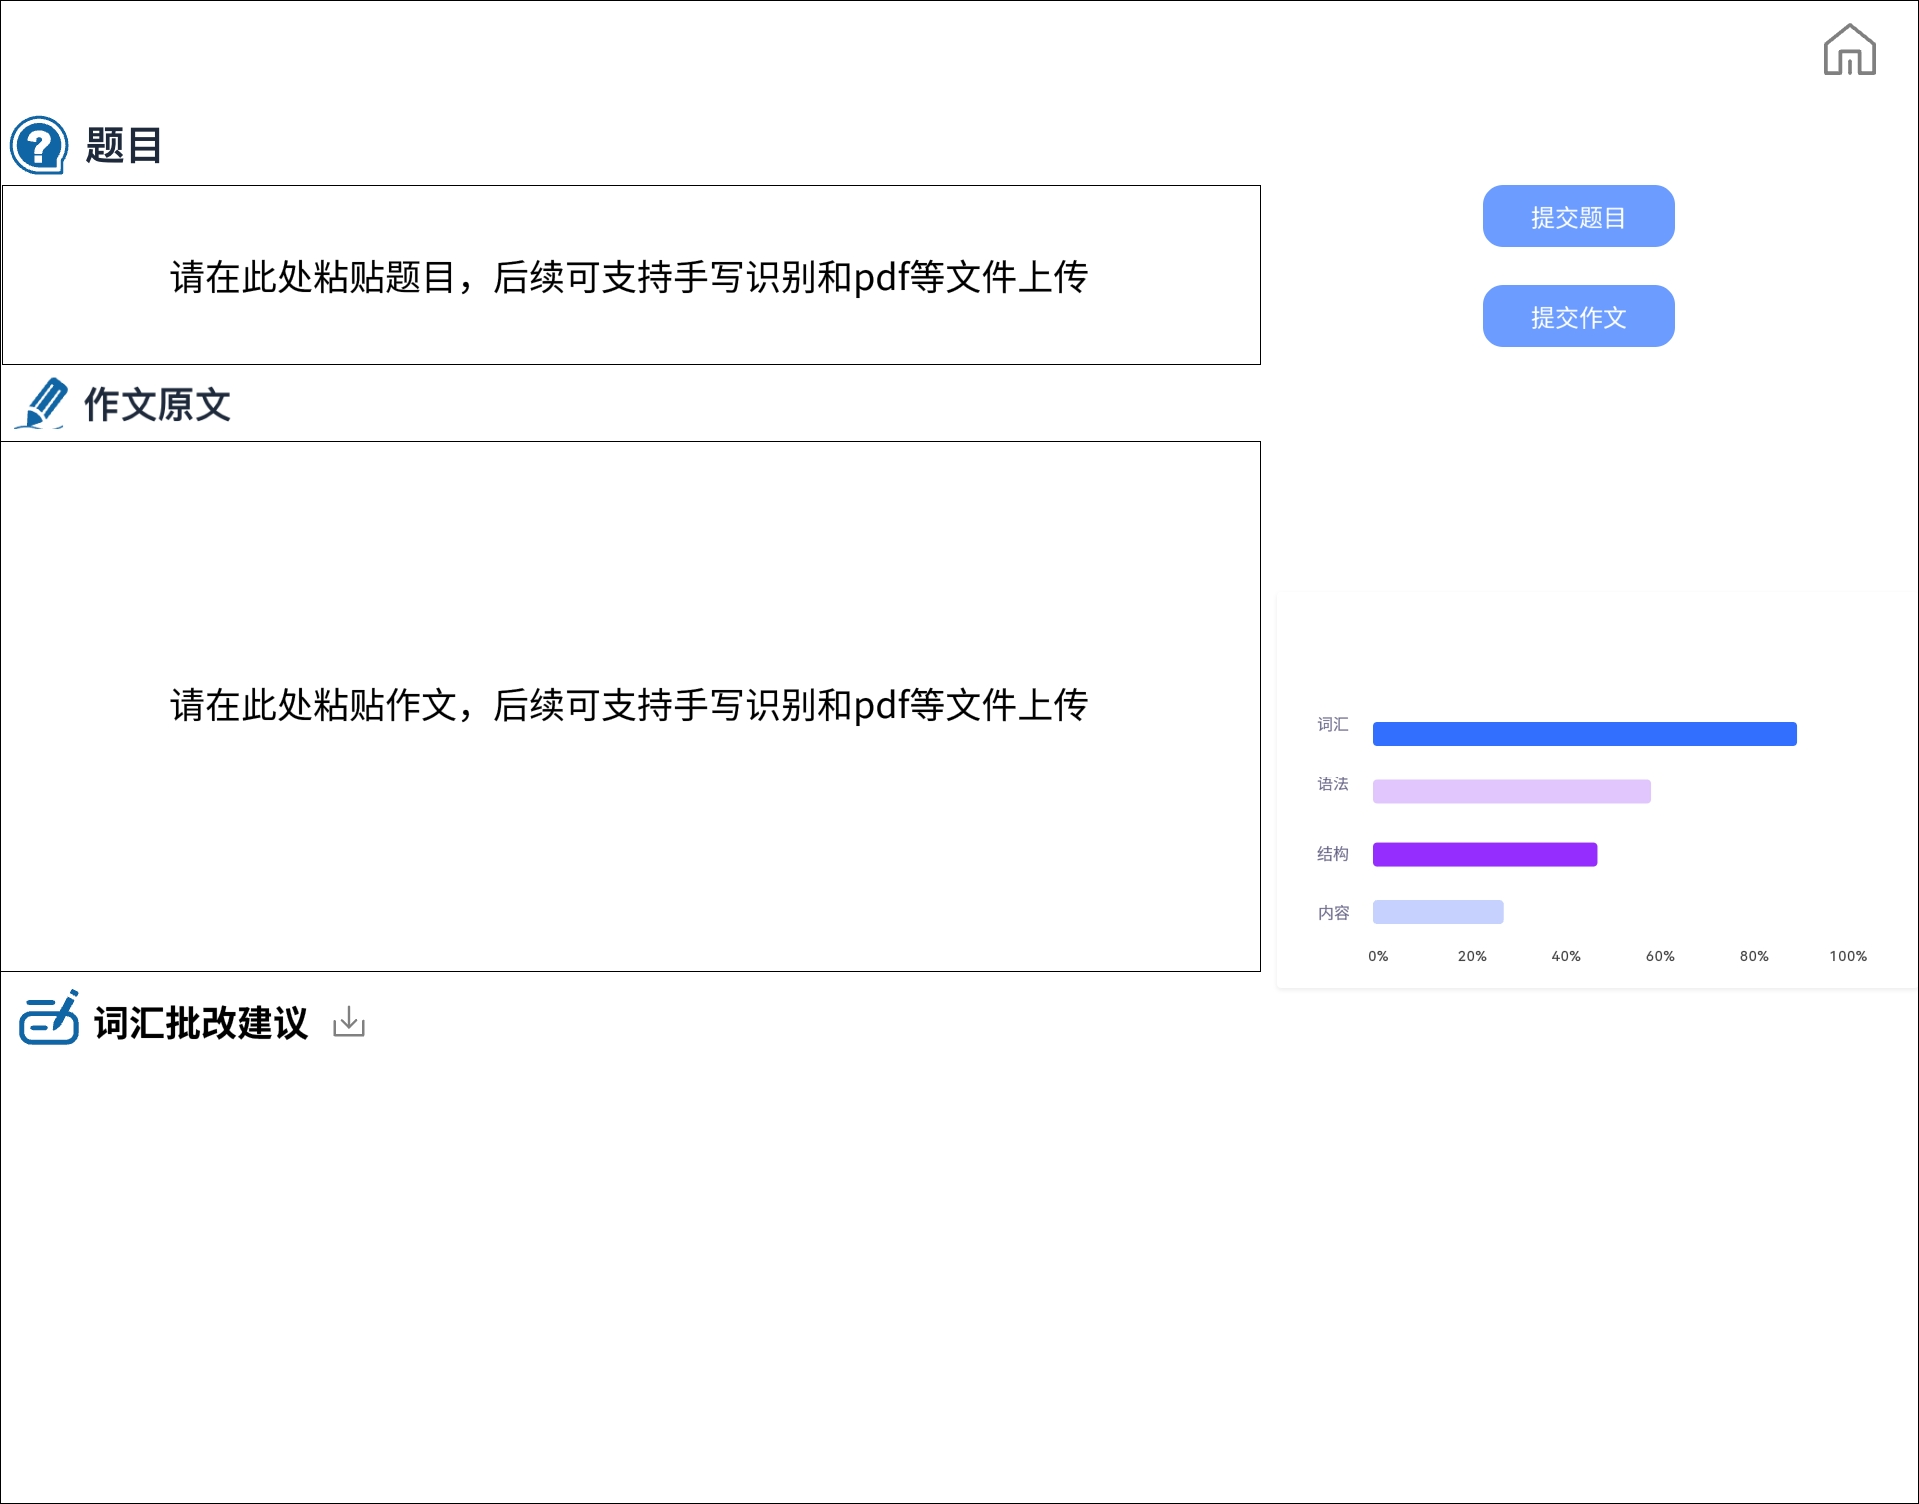
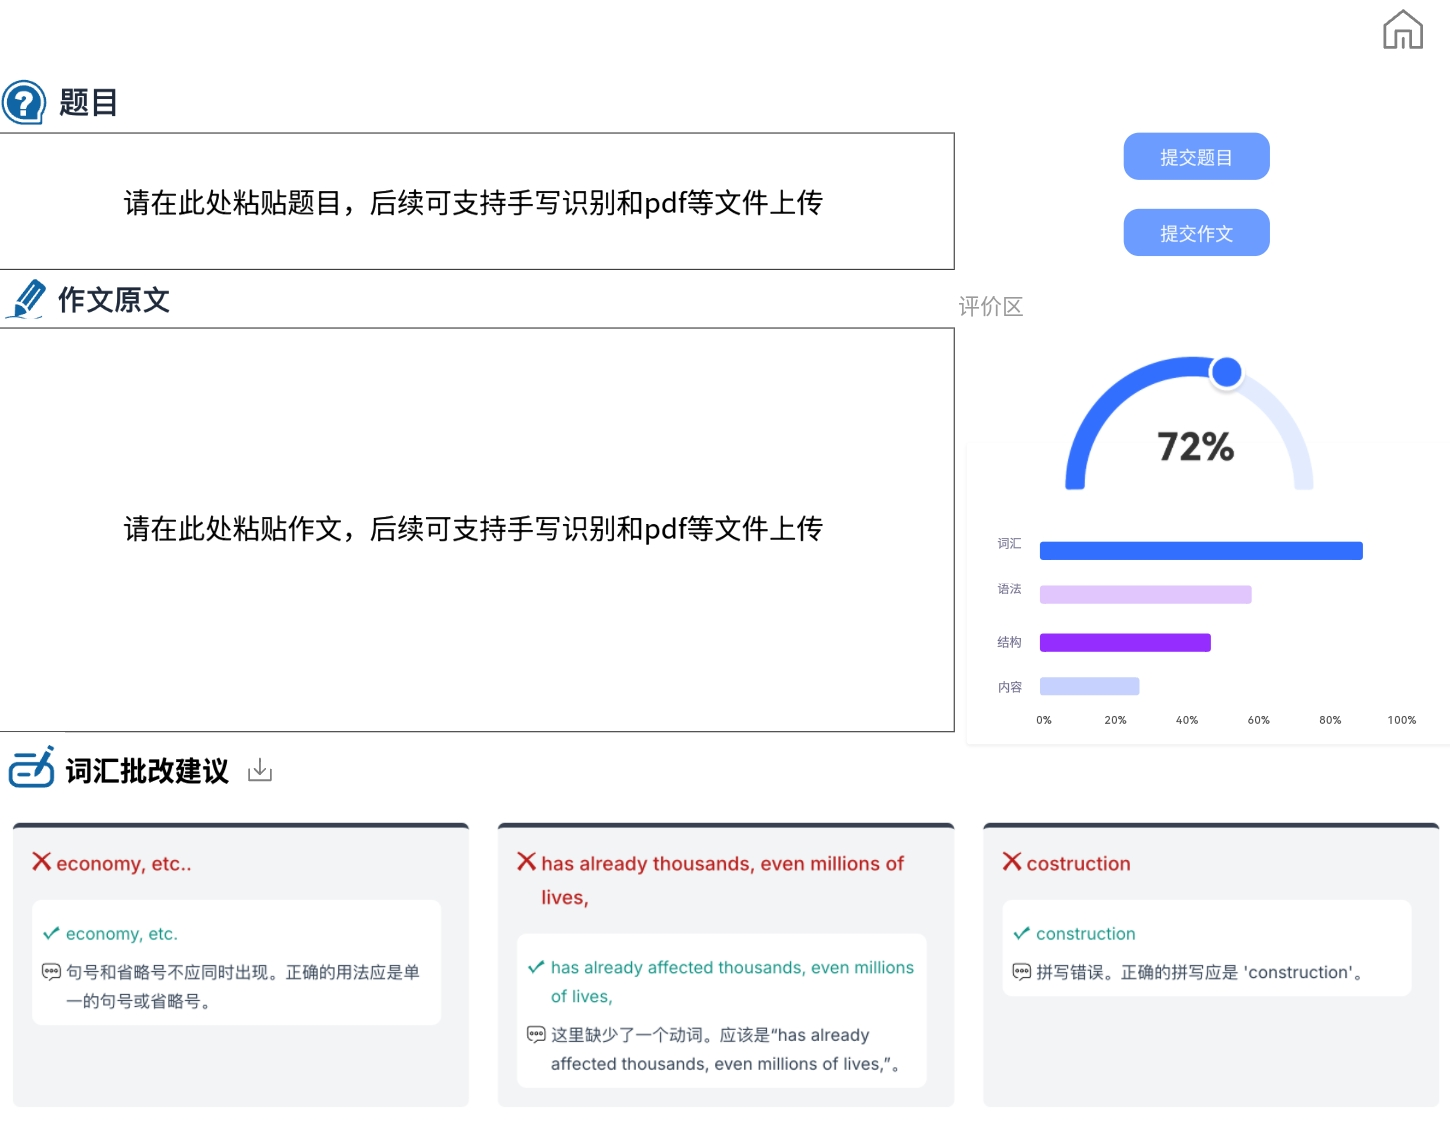
doc 2.0

diff --git a/WritingAssistant/README.md b/WritingAssistant/README.md
@@ -106,20 +106,42 @@ graph TD
 
 ### **1. 详细功能设计**介绍
 
-#### **（1）界面1： 引导界面**
+#### **（1）模块1： 引导界面**
 
-![Writing Assistant 启动图](https://github.com/Capybaring/aigc-writing_assistant/raw/master/WritingAssistant/png/0-start.png)
+![1](http://github.com/Capybaring/aigc-writing_assistant/raw/master/WritingAssistant/png/0-start.png)
 
-- 进入主页面，可以实现用户免费登陆注册。每一用户数据可以独立使用，精准记录练习时长和练习题目数量，帮助学生回顾完成题目，提高时间意识。
-- 主页面右上角的日历提醒学生距离高考/模拟考试的时间，便于做出合理时间规划。
-- 快速练习部分，根据用户数据，使用**大模型推荐**，针对学生薄弱环节进行对应练习，后端连接近年考题数据库，点击即可进入做题
-- 点击下面的任意模块可以进入对应功能，此产品由中文写作，英文写作，素材积累，妙笔生画四个板块组成
 
-#### （2）界面2： 中文写作界面
+
+- **智能登录与数据管理**：
+
+  - 支持免费注册登录，每位用户数据独立存储，精准记录练习时长与题目数量，方便学生回溯学习历程，强化时间管理意识。
+
+  - 可以点击查看历史分数，追踪成绩变化
+
+    ![Writing Assistant 1](http://github.com/Capybaring/aigc-writing_assistant/raw/master/WritingAssistant/png/0-score.png)
+    
+    
+
+- **考试倒计时日历**：
+
+  - 主页面右上角实时展示高考 / 模拟考试倒计时，帮助学生科学规划备考节奏，合理分配学习时间。
+
+- **AI 智能练习推荐**：
+
+  - 基于用户学习数据，通过大模型智能分析薄弱环节，从近年考题数据库中精准推送针对性练习，一键开启高效刷题模式。
+
+- **多功能学习模块**：
+
+  - **中文写作**：提供写作指导与训练，助力提升中文表达能力。
+  - **英文写作**：针对英语写作技巧与规范，强化英文写作水平。
+  - **素材积累**：整合丰富写作素材，拓宽知识储备与创作灵感。
+  - **蓝心绘梦**：结合写作与创意表达，通过图文结合形式激发创作潜能。
+
+#### **（2）模块2： 中文写作界面**
 
 ##### **(a) AI智能评分系统**  
 
-![Writing Assistant 1](https://github.com/Capybaring/aigc-writing_assistant/raw/master/WritingAssistant/png/1-polish.png)
+![Writing Assistant 1](http://github.com/Capybaring/aigc-writing_assistant/raw/master/WritingAssistant/png/1-polish.png) 
 
 - **即时诊断**：  
   - 语法错误实时标注（支持中英双语）  
@@ -129,7 +151,7 @@ graph TD
 
 ##### **(b) 读写共生系统**  
 
-![Writing Assistant 2](https://github.com/Capybaring/aigc-writing_assistant/raw/master/WritingAssistant/png/1-read.png)
+![Writing Assistant 2](http://github.com/Capybaring/aigc-writing_assistant/raw/master/WritingAssistant/png/1-read.png)  
 
 - **智能关联**：  
   
@@ -144,6 +166,9 @@ graph TD
   - 支持"鲁迅式讽刺""冰心体抒情"等风格化素材标签  
 
 ##### **(c) 动态润色系统**  
+
+![Writing Assistant 3](http://github.com/Capybaring/aigc-writing_assistant/raw/master/WritingAssistant/png/1-polish.png)
+
 - **人机协同设计**：  
   
   | 润色强度       | 功能描述                      | 适用场景              |  
@@ -152,7 +177,58 @@ graph TD
   | **创意模式**   | 提供三种风格化改写建议          | 文学创作练习          |  
   | **学术模式**   | 强化逻辑结构与论证严谨性        | 研究性学习报告        |  
 
+#### **（3）模块3： 英文写作界面**
+
+![2](http://github.com/Capybaring/aigc-writing_assistant/raw/master/WritingAssistant/png/2-english.png)
+
+- **智能作文批改：**
+
+  - 多维度评分：依据英语作文判分标准，从词汇运用、语法结构、内容完整性等方面进行综合评分。
+
+  - 精准标注与建议：实时标记词汇误用与语法错误，提供高阶词汇替换建议及语法修正方案。
+
+  - 全文润色优化：按照考纲要求对作文进行系统性润色，提升文本质量与表达规范性。
+
+    ![ ](http://github.com/Capybaring/aigc-writing_assistant/raw/master/WritingAssistant/png/2-example.png)
+
+- **学习成果管理：**
+
+  - 报告下载功能：生成详细批改报告，支持学生下载留存，便于复习与总结。
+  - 分数记录系统：自动存储每次练习得分，形成个人写作能力成长曲线。
+
+- **思维可视化工具：**
+
+  - 思维导图生成：基于作文内容与逻辑，自动生成结构化思维导图，辅助学生梳理写作思路，优化文章架构。
+
+    ![3](http://github.com/Capybaring/aigc-writing_assistant/raw/master/WritingAssistant/png/2-mindmap.png)
+
+#### **（4）模块4： 素材积累**
+
+![](http://github.com/Capybaring/aigc-writing_assistant/raw/master/WritingAssistant/png/3-material.png)
+
+- **AI 智能素材库：**
+  - 关键词生成：基于 AI 大模型，输入关键词即可快速生成适配初高中生需求的写作素材，支持一键点击获取更多相关内容。
+  - 个性化推荐：依据用户练习习惯，智能推送专属素材卡片，实现素材推荐的精准匹配。
+- **智能备考助手：**
+  - 题目范文推荐：结合近期练习情况，针对薄弱环节推送匹配题目及范文，提供针对性练习方案。
+  - 考题预测：运用 AI 分析学习数据，精准预测高频考点及考试趋势，助力高效备考。
+
+#### **（5）模块5： 蓝心绘梦——趣味绘画**
+
+![ ](http://github.com/Capybaring/aigc-writing_assistant/raw/master/PrototypeDesign/DesignPicture/draw.png)
+
+- **创意绘画工坊：**
+  - 文图智能转化：支持将写作内容一键生成匹配图片，或通过关键词、灵感输入，快速产出多元风格画作。此处调用蓝心大模型中的妙笔生画绘图模型，完成不同风格绘画创作。
+  - 个性化创作调节：提供艺术风格（如油画、水墨、赛博朋克）、画面比例、色彩倾向等参数调整选项，满足不同创作需求。
+  - 诗歌可视化：输入诗歌即可生成意境对应的图画，辅助理解文本深层内涵。
+- **智能绘图交互：**
+  - 多模式创作入口：支持手机上传图片进行二次创作，或通过在线互动绘画功能，借助大模型接口实现图生图的创意延伸。
+- **灵感社交社区：**
+  - 风格广场互动：展示用户创作的绘画作品，支持点赞、评论与分享，激发创作灵感。
+  - 创作学院管理：保存个人创作灵感与提示词，逐步形成独特艺术风格，助力绘画进阶。
+
 ### **2. 产品形态演进**  
+
 | 阶段         | 核心形态                      | 关键指标                      |  
 |-------------|-----------------------------|-----------------------------|  
 | **初期**     | 轻量级Web应用                 | 支持50人并发写作批改           |  
